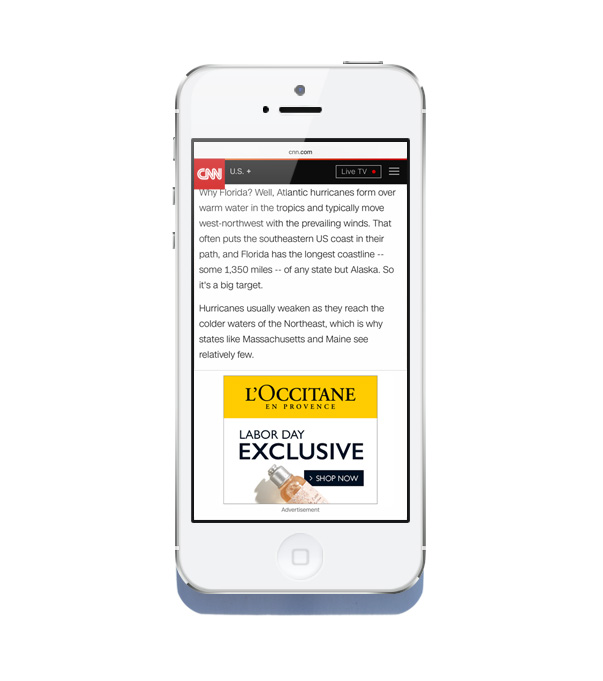
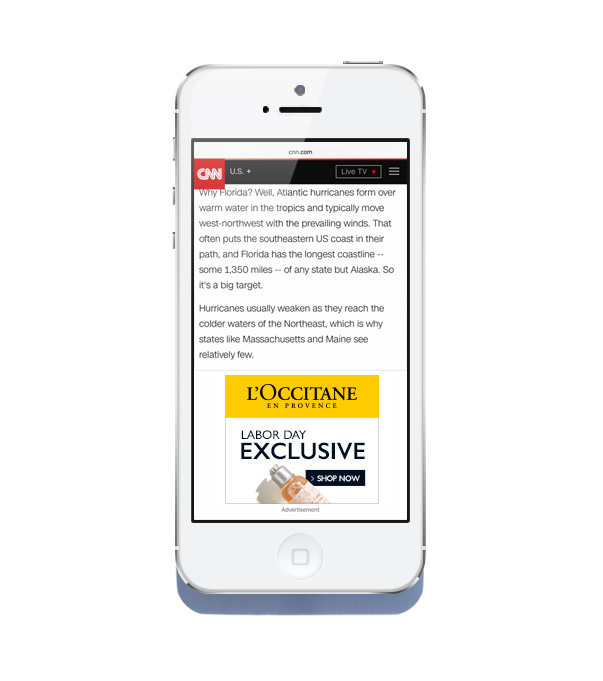
revised theLittleThings

Changed region(s): [[0.3582, 0.5551, 0.6269, 0.7401]]

diff --git a/TheLittleThings.html b/TheLittleThings.html
@@ -33,9 +33,9 @@
       <img class="header-images" src="include/img/gallery/full/theLittleThings/603w/TheLittleThings_phone_603w.jpg"/>
       <img class="work-image" src="include/img/gallery/full/theLittleThings/603w/TheLittleThings_workImage1_603w.jpg"/>
       <img class="work-image" src="include/img/gallery/full/theLittleThings/603w/TheLittleThings_workCopy1_603w.jpg"/>
-      <img class="work-image" src="include/img/gallery/full/theLittleThings/603w/TheLittleThings_workCopy2_603w.jpg"/>       
+      <img class="work-image" src="include/img/gallery/full/theLittleThings/603w/TheLittleThings_workCopy2_603w.jpg"/>
       <img class="work-image" src="include/img/gallery/full/theLittleThings/603w/TheLittleThings_workImage2_603w.jpg"/>
-      <img class="work-image-large" src="include/img/gallery/full/workImage-large/workImage_large.jpg"/>
+      <img class="work-image-large" src="include/img/gallery/full/theLittleThings/603w/TheLittleThings_work_image_large_603w.jpg"/>
     </div>
 
     <a href="#"><img class="back-to-top" src="include/img/logos/Arrow.png"/></a>
